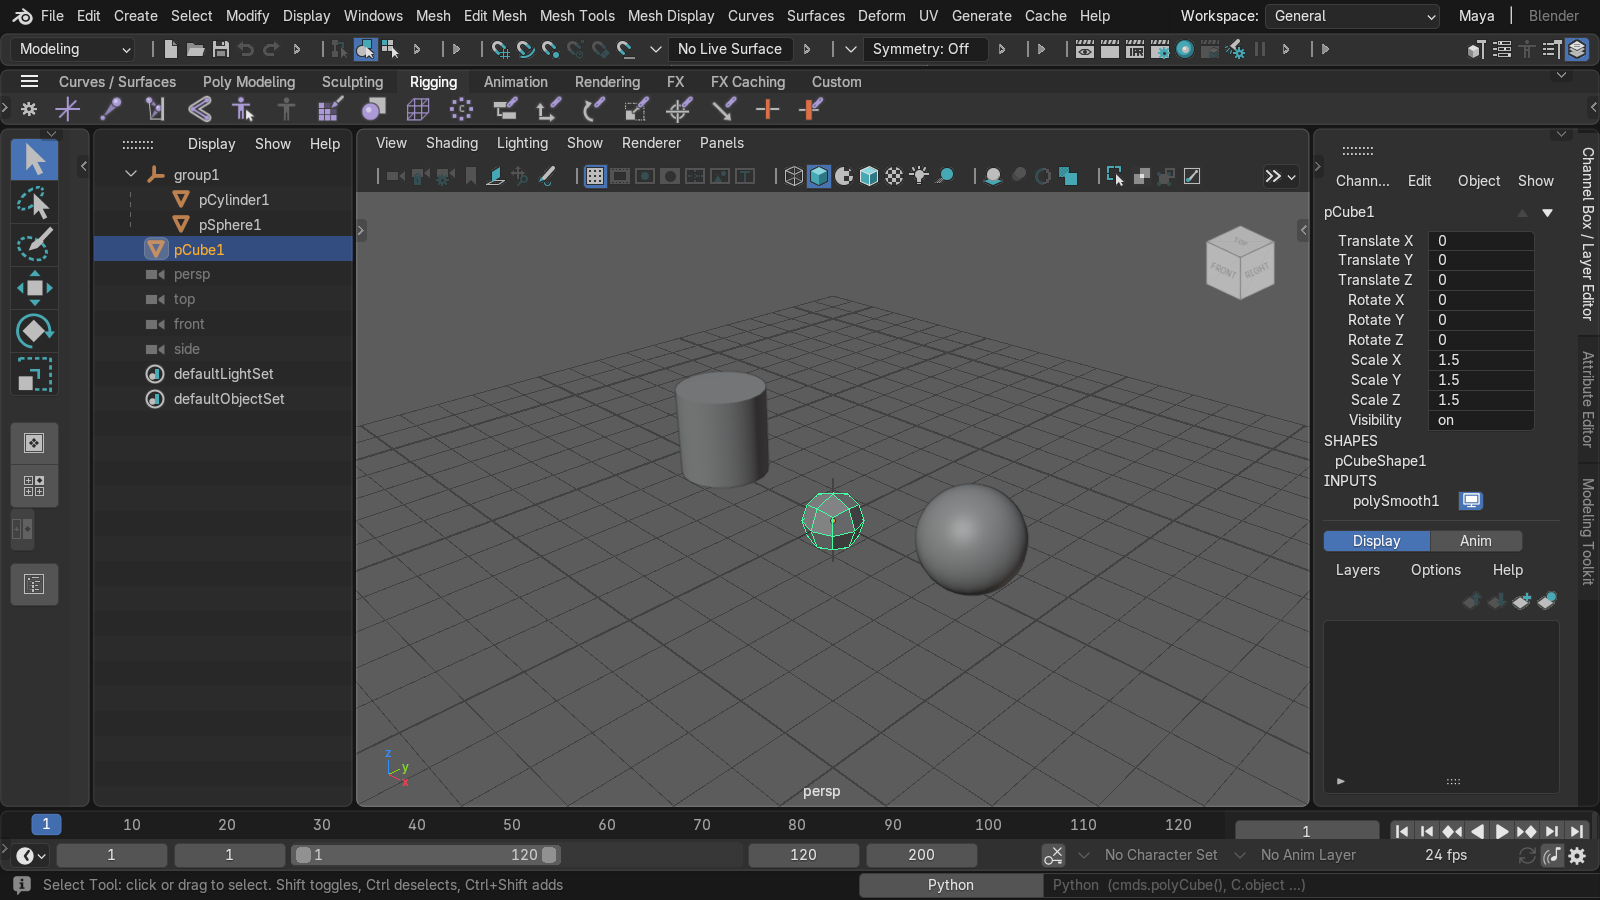
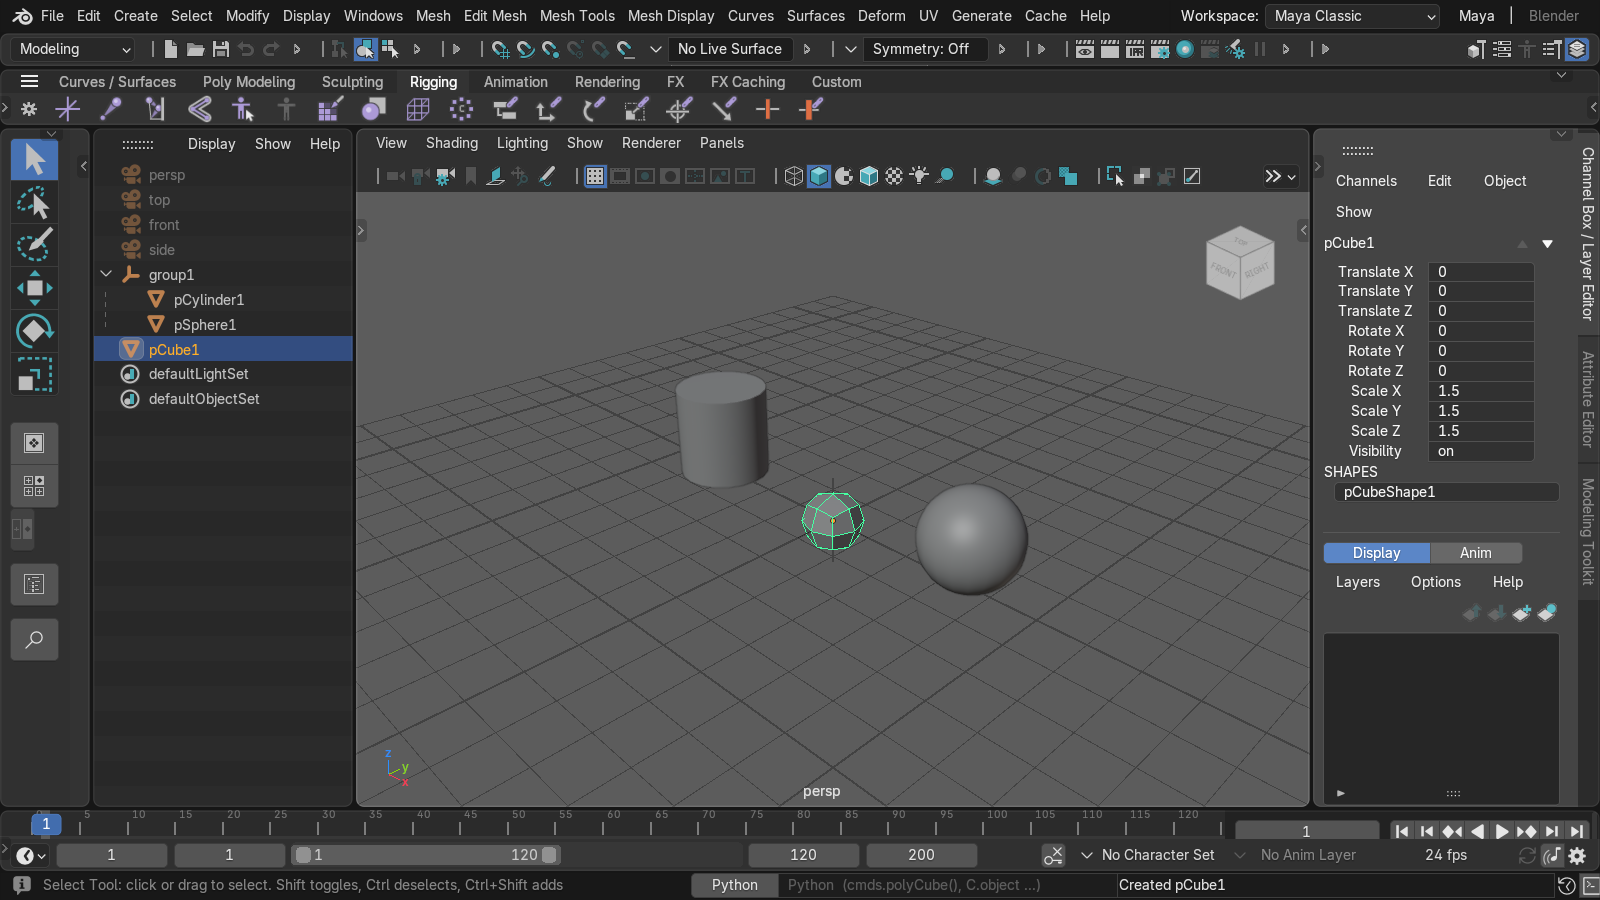
Step 229: release prep 0.5.0
Full headless runs on Blender 4.5.4 / 5.0.1 / 5.1.2 / 5.2.3, the full GUI suite on 4.5, release_check on
4.5.4 and 5.2.2, dogfood and look_compare. Fixed what they found: a Blender 5.2.3 crash (World sync made
and removed data inside a depsgraph handler), a Blender 5.0.1 crash (mistyped .select_edge repaired),
Modify > Reorder Rotation, and tests written before the Maya 2026 menus, the startup cameras and the
PR #125 watchers. CHANGELOG 0.5.0 and release notes.

diff --git a/tests/gui/gui_step134_selection.py b/tests/gui/gui_step134_selection.py
@@ -327,9 +327,12 @@ def s_time_on():
         reads.append((t2 - t) * 1000.0)
         parts.append((round((t1 - t) * 1000, 1), round((t2 - t1) * 1000, 1)))
     print("GUI step134 read / batch ms", parts)
+    # PR #125 (2e8dcde, kept by the maintainer) rebuilds from the live edit BMesh so the highlight never lags the
+    # selection: 101k vertices 36 -> 73 ms per rebuild (git bisect, step 229); the per-frame draw is unchanged.
+    REBUILD_MS = 90.0
     print("GUI step134 frame ms", C["verts"], C["off"], C["on"], "rebuild ms", reads)
     check(f"{C['verts']} vertices in edit mode: frame {C['off']:.2f} -> {C['on']:.2f} ms with Maya component "
-          f"colours, cache rebuild {min(reads):.1f} ms (< 60 ms)", st is not None and min(reads) < 60.0)
+          f"colours, cache rebuild {min(reads):.1f} ms (< {REBUILD_MS:.0f} ms)", st is not None and min(reads) < REBUILD_MS)
     shot("100k")
 
 
